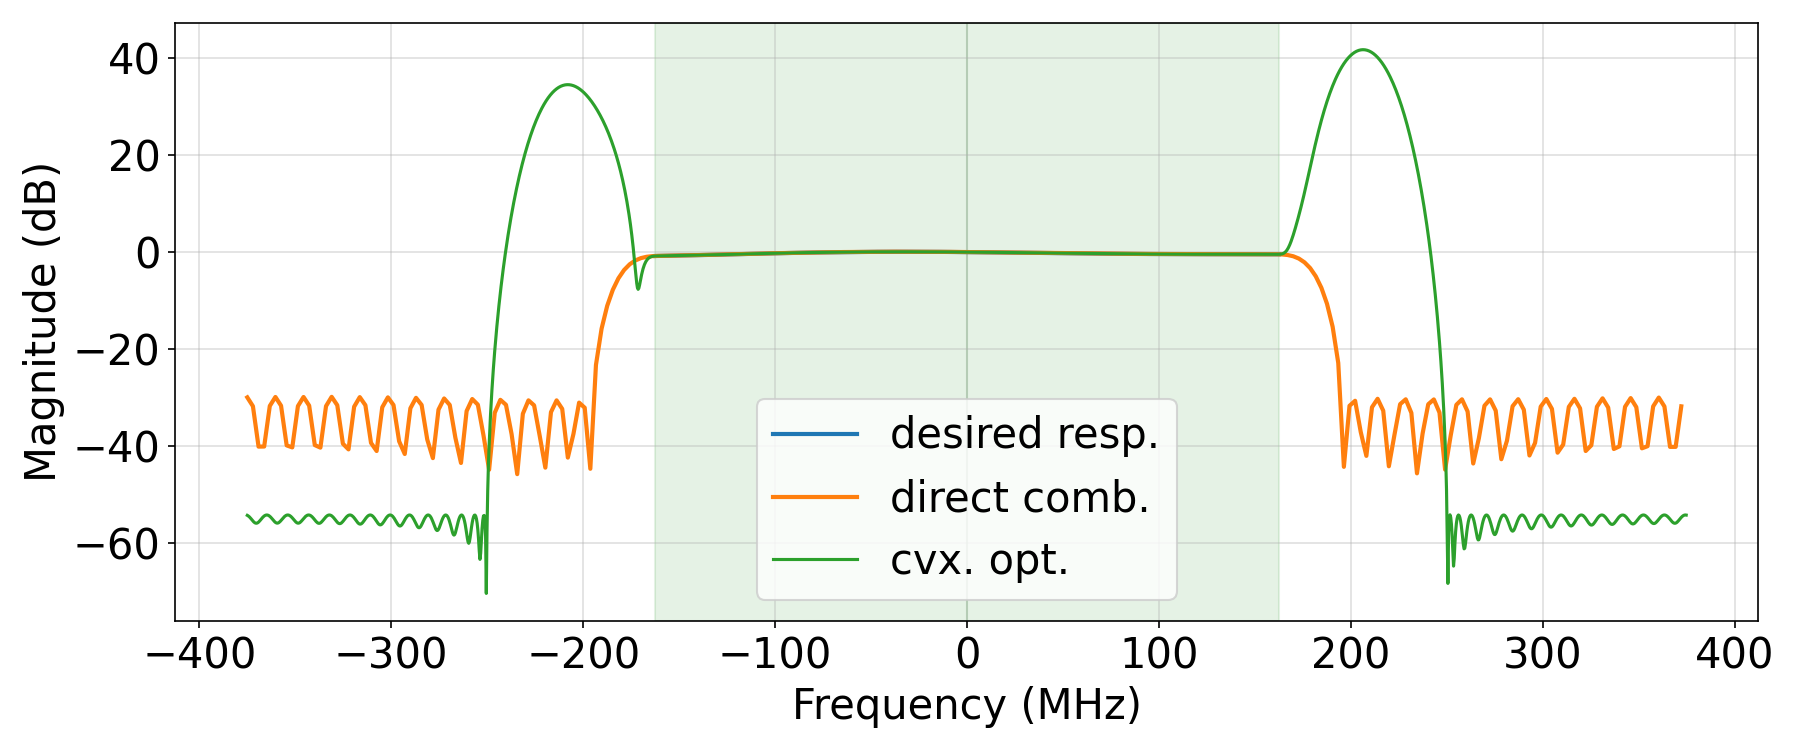
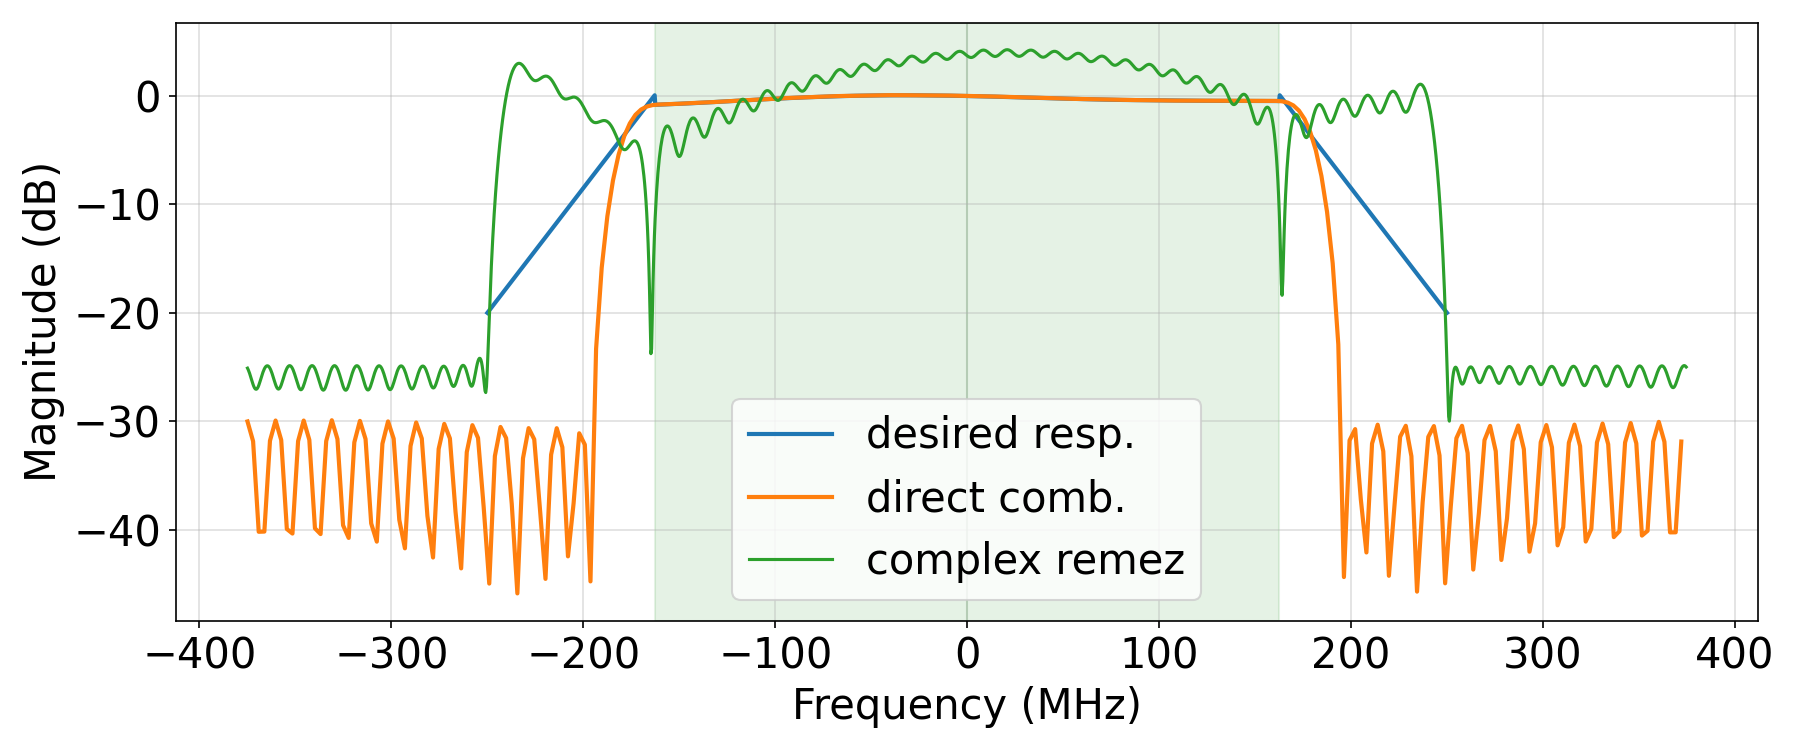
Add transition band constraint to complex remez

diff --git a/gen_rx_filter/run_eqz_lowpass_remez.py b/gen_rx_filter/run_eqz_lowpass_remez.py
@@ -50,7 +50,9 @@ import os
 import sys
 from typing import Optional, Union
 
+import matplotlib.pyplot as plt
 import numpy as np
+import plotly.graph_objects as go
 from scipy.linalg import lstsq as scipy_lstsq
 
 _HERE = os.path.dirname(os.path.abspath(__file__))
@@ -80,6 +82,7 @@ def design_complex_fir_remez(
     Hd_passband: np.ndarray,
     sb_weight: float = 1.0,
     transition_freqs: Optional[np.ndarray] = None,
+    Hd_transition: Optional[np.ndarray] = None,
     delta_t: Union[float, np.ndarray] = 1.0,
     n_iter: int = 150,
     tol: float = 1e-6,
@@ -110,11 +113,12 @@ def design_complex_fir_remez(
             tolerances so that peak_pb_err ≈ delta_p and peak_sb ≈ delta_s
             at convergence.
         transition_freqs: Optional angular frequencies in the transition band.
-            Desired response is 0; a tapered upper bound is encoded through
-            per-point weights derived from delta_t.
-        delta_t: Upper magnitude bound for the transition band.  Scalar for a
-            flat cap, or ndarray of length K_tb for a per-point bound.  A
-            tighter (smaller) bound produces a larger per-point weight.
+        Hd_transition: Desired magnitude response at transition_freqs (real,
+            positive).  When provided, the solver tracks this ramp directly
+            with weight sb_weight.  When None, falls back to a zero-desired /
+            tapered-weight upper-bound encoded via delta_t.
+        delta_t: Upper magnitude bound used only when Hd_transition is None.
+            Scalar or ndarray of length K_tb; tighter bound → larger weight.
         n_iter: Maximum Lawson iterations.
         tol: Convergence threshold: stop when the relative change in the
             combined peak error falls below this value.
@@ -134,7 +138,10 @@ def design_complex_fir_remez(
     if transition_freqs is not None:
         K_tb = len(transition_freqs)
         freq_parts.append(transition_freqs)
-        Hd_parts.append(np.zeros(K_tb, dtype=complex))
+        if Hd_transition is not None:
+            Hd_parts.append(Hd_transition.astype(complex))
+        else:
+            Hd_parts.append(np.zeros(K_tb, dtype=complex))
 
     all_freqs = np.concatenate(freq_parts)   # (K,)
     Hd_all    = np.concatenate(Hd_parts)     # (K,)
@@ -144,12 +151,15 @@ def design_complex_fir_remez(
     B = np.ones(K)
     B[K_pb : K_pb + K_sb] = sb_weight
     if K_tb > 0:
-        dt = np.atleast_1d(delta_t)
-        if dt.size == 1:
-            dt = np.full(K_tb, float(dt[0]))
-        dt = np.maximum(dt, 1e-9)           # guard against zero
-        # Tighter bound → larger weight (transition region treated as soft stopband)
-        B[K_pb + K_sb :] = sb_weight / dt
+        if Hd_transition is not None:
+            # Desired ramp provided: weight uniformly at sb_weight
+            B[K_pb + K_sb :] = sb_weight
+        else:
+            dt = np.atleast_1d(delta_t)
+            if dt.size == 1:
+                dt = np.full(K_tb, float(dt[0]))
+            dt = np.maximum(dt, 1e-9)
+            B[K_pb + K_sb :] = sb_weight / dt
 
     # DFT evaluation matrix  A[k, n] = exp(−j ω_k n)
     A = build_frequency_matrix(all_freqs, N)  # (K, N)
@@ -344,14 +354,17 @@ def design_eqz_lowpass_remez(
     # ------------------------------------------------------------------ #
     Hd_pb = interp_fft_response(eqz_resp, fs=fs_mhz, target_freqs_rad=pb_freqs)
 
-    # Transition-band upper bound: tapers linearly from passband peak to
-    # 3×delta_s so the solver has room at the boundary.
-    delta_t_start = float(np.max(np.abs(Hd_pb)))
-    delta_t_end   = delta_s * 3.0
-    t             = np.linspace(0.0, 1.0, n_grid // 2)
-    tb_bounds_pos = delta_t_start + (delta_t_end - delta_t_start) * t
-    tb_bounds_neg = tb_bounds_pos[::-1]
-    delta_t       = np.concatenate([tb_bounds_neg, tb_bounds_pos])
+    # Transition-band desired response: linear drop on dB scale from the
+    # passband-edge level down to delta_s at the stopband edge.
+    tb_db_start = 20 * np.log10(float(np.max(np.abs(Hd_pb))) + 1e-12)
+    tb_db_end   = 20 * np.log10(delta_s + 1e-12)
+    t           = np.linspace(0.0, 1.0, n_grid // 2)
+    tb_db_pos   = tb_db_start + (tb_db_end - tb_db_start) * t   # passband → stopband
+    tb_db_neg   = tb_db_pos[::-1]                                # stopband → passband
+    tb_desired  = np.concatenate([
+        10 ** (tb_db_neg / 20),
+        10 ** (tb_db_pos / 20),
+    ])
 
     # ------------------------------------------------------------------ #
     # Step 4: run complex Remez (Lawson IRLS)                            #
@@ -368,22 +381,23 @@ def design_eqz_lowpass_remez(
     print(f"  DC gain removed: |{np.abs(dc_gain):.6f}|  ∠{np.degrees(np.angle(dc_gain)):.2f}°")
     print(f"  delta_p     = {delta_p}  (passband),  delta_s = {delta_s}  (stopband)")
     print(f"  sb_weight   = delta_p/delta_s = {sb_weight:.4f}")
-    print("  transition  = unconstrained (Remez handles rolloff organically)")
+    print(f"  transition  = dB-linear ramp  [{tb_db_start:.2f} → {tb_db_end:.2f} dB]  "
+          f"({len(tb_freqs)} pts)")
     print(f"  max_iter    = {n_iter}")
 
-    # Note: transition_freqs are intentionally NOT passed here.
-    # Unlike the CVXPY solver (which needs an explicit upper-bound constraint to
-    # prevent the unconstrained gap from spiking), the Remez minimax objective
-    # naturally leaves the transition band unconstrained – the filter rolls off
-    # organically between the passband and stopband.  Encoding the taper as soft
-    # weights inflates the transition-band weight near the stopband edge above
-    # the passband weight, which hurts in-band fitting with no benefit.
+    # _tb_freqs = None        # set to tb_freqs to include transition band in solver
+    # _Hd_transition = None   # set to tb_desired to use ramp desired response
+    _tb_freqs = tb_freqs        # set to tb_freqs to include transition band in solver
+    _Hd_transition = tb_desired   # set to tb_desired to use ramp desired response
+
     h = design_complex_fir_remez(
         N=N,
         passband_freqs=pb_freqs,
         stopband_freqs=sb_freqs,
         Hd_passband=Hd_pb,
         sb_weight=sb_weight,
+        transition_freqs=_tb_freqs,
+        Hd_transition=_Hd_transition,
         n_iter=n_iter,
         verbose=verbose,
     )
@@ -404,10 +418,23 @@ def design_eqz_lowpass_remez(
     # ------------------------------------------------------------------ #
     # Step 6: save and plot                                               #
     # ------------------------------------------------------------------ #
-    _, _, H_combined, hc_freq_axis = compute_aaf_responses(
+    _, H_eqz, H_combined, hc_freq_axis = compute_aaf_responses(
         f_pass_mhz=f_pass_mhz, fs_mhz=fs_mhz
     )
-    H_combined = H_combined / H_combined[len(H_combined) // 2]
+    dc_idx     = len(H_eqz) // 2
+    H_eqz      = H_eqz     / H_eqz[dc_idx]
+    H_combined = H_combined / H_combined[dc_idx]
+
+    # Build desired-response arrays for plotting: include transition band when provided
+    if _Hd_transition is not None and _tb_freqs is not None:
+        _all_Hd_freqs = np.concatenate([pb_freqs, _tb_freqs])
+        _all_Hd = np.concatenate([Hd_pb, _Hd_transition.astype(complex)])
+        _sort = np.argsort(_all_Hd_freqs)
+        Hd_freqs_plot = _all_Hd_freqs[_sort]
+        Hd_plot = _all_Hd[_sort]
+    else:
+        Hd_freqs_plot = pb_freqs
+        Hd_plot = Hd_pb
 
     save_coefficients(h, out_dir=out_dir, name='eqz_lowpass_remez')
     plot_response(
@@ -415,11 +442,63 @@ def design_eqz_lowpass_remez(
         title=f'EQZ Lowpass FIR (Remez)  N={N}  ±{f_pass_mhz} MHz',
         passband_edges=(0.0, pb_norm),
         freq_unit='MHz',
-        Hd_freqs_rad=pb_freqs,
-        Hd=Hd_pb,
+        Hd_freqs_rad=Hd_freqs_plot,
+        Hd=Hd_plot,
         Hc_freqs_mhz=hc_freq_axis,
         Hc=H_combined,
+        h_label='complex remez',
     )
+
+    # ---- In-band error figure -------------------------------------------
+    # Error metric: |mag_dB(H) − mag_dB(H_eqz)| inside the passband,
+    # same definition as gen_aaf_coef.plot_inband_error.
+    pb_mask  = np.abs(hc_freq_axis) <= f_pass_mhz
+    freq_pb  = hc_freq_axis[pb_mask]
+    ref_db   = 20 * np.log10(np.abs(H_eqz[pb_mask])      + 1e-12)
+
+    # Evaluate the designed filter on the same AAF grid (hc_freq_axis in MHz)
+    hc_freqs_rad = hc_freq_axis / fs_mhz * 2 * np.pi
+    H_rmz_hc     = evaluate_response(h, hc_freqs_rad)
+    H_rmz_hc     = H_rmz_hc / H_rmz_hc[dc_idx]
+
+    def _err_db(H):
+        return np.abs(20 * np.log10(np.abs(H[pb_mask]) + 1e-12) - ref_db)
+
+    FSIZE = 20
+    curves = [
+        (_err_db(H_combined), 'direct combine'),
+        (_err_db(H_rmz_hc),   'complex remez'),
+    ]
+
+    # matplotlib PNG
+    fig, ax = plt.subplots(figsize=(12, 5))
+    for err, label in curves:
+        ax.plot(freq_pb, err, lw=2.0, label=label)
+    ax.set_xlabel('Frequency (MHz)', fontsize=FSIZE)
+    ax.set_ylabel('Magnitude error (dB)', fontsize=FSIZE)
+    ax.tick_params(labelsize=FSIZE)
+    ax.legend(fontsize=FSIZE)
+    ax.grid(True, alpha=0.4)
+    fig.tight_layout()
+    err_png = os.path.join(out_dir, 'inband_error.png')
+    fig.savefig(err_png, dpi=150)
+    plt.close(fig)
+    print(f"Saved in-band error plot → {err_png}")
+
+    # Plotly interactive HTML
+    pfig = go.Figure()
+    for err, label in curves:
+        pfig.add_trace(go.Scatter(x=freq_pb.tolist(), y=err.tolist(),
+                                  name=label, line=dict(width=2)))
+    pfig.update_layout(
+        xaxis_title='Frequency (MHz)',
+        yaxis_title='Magnitude error (dB)',
+        hovermode='x unified',
+        font=dict(size=FSIZE),
+    )
+    err_html = os.path.join(out_dir, 'inband_error.html')
+    pfig.write_html(err_html)
+    print(f"Saved in-band error HTML  → {err_html}")
     _write_params_tex(
         path=os.path.join(_HERE, 'document', 'params_remez.tex'),
         N=N, fs_mhz=fs_mhz, f_pass_mhz=f_pass_mhz, f_stop_mhz=f_stop_mhz,
@@ -447,7 +526,7 @@ def _build_parser() -> argparse.ArgumentParser:
                    help='Stopband start frequency in MHz')
     p.add_argument('--delta-p',  type=float, default=0.05,
                    help='Passband ripple tolerance (sets sb_weight = delta_p/delta_s)')
-    p.add_argument('--delta-s',  type=float, default=0.1,
+    p.add_argument('--delta-s',  type=float, default=0.1, # 0.1
                    help='Stopband attenuation tolerance')
     p.add_argument('--n-iter',   type=int,   default=150,
                    help='Maximum Lawson iterations')

diff --git a/gen_rx_filter/compare_lowpass_methods.py b/gen_rx_filter/compare_lowpass_methods.py
@@ -125,9 +125,26 @@ def run_comparison(
         verbose=verbose,
     )
 
-    # ---- Remez (Lawson IRLS, transition band unconstrained) --------------
+    # ---- Remez (Lawson IRLS) – two-pass stopband calibration -------------
+    # Pass 1: initial weight ratio sets the equiripple balance.
     sb_weight = delta_p / delta_s
-    print(f"[2/2] Remez Lawson IRLS  N={N}  sb_weight={sb_weight:.3f}")
+    print(f"[2/2] Remez Lawson IRLS  N={N}  pass 1  sb_weight={sb_weight:.3f}")
+    h_rmz = design_complex_fir_remez(
+        N=N,
+        passband_freqs=pb_freqs,
+        stopband_freqs=sb_freqs,
+        Hd_passband=Hd_pb,
+        sb_weight=sb_weight,
+        n_iter=n_iter_remez,
+        verbose=verbose,
+    )
+    # The equiripple condition gives sb_peak ≈ pb_peak / sb_weight, where
+    # pb_peak (δ*) is set by N — not by delta_p.  Recalibrate sb_weight
+    # using the measured pb_peak so pass 2 lands sb_peak ≈ delta_s.
+    pb_achieved = float(np.max(np.abs(evaluate_response(h_rmz, pb_freqs) - Hd_pb)))
+    sb_weight = pb_achieved / delta_s
+    print(f"           pass 2  pb_achieved={pb_achieved:.5f}  "
+          f"sb_weight_corrected={sb_weight:.3f}")
     h_rmz = design_complex_fir_remez(
         N=N,
         passband_freqs=pb_freqs,

diff --git a/gen_rx_filter/document/params_remez.tex b/gen_rx_filter/document/params_remez.tex
@@ -1,0 +1,12 @@
+\begin{tabular}{ll}
+  \toprule
+  Parameter & Value \\
+  \midrule
+  Sample rate $f_s$ & 750\,MHz (two-sided, Nyquist $= \pm375$\,MHz) \\
+  Passband edge $f_p$ & $\pm162.5$\,MHz \\
+  Stopband edge $f_{stop}$ & $\pm250.0$\,MHz \\
+  Filter taps $N$ & 63 \\
+  Passband tolerance $\delta_p$ & 0.05 \\
+  Stopband tolerance $\delta_s$ & 0.1 \\
+  \bottomrule
+\end{tabular}

diff --git a/gen_rx_filter/design_fir_cvxpy.py b/gen_rx_filter/design_fir_cvxpy.py
@@ -240,6 +240,7 @@ def plot_response(
     Hd: Optional[np.ndarray] = None,
     Hc_freqs_mhz: Optional[np.ndarray] = None,
     Hc: Optional[np.ndarray] = None,
+    h_label: str = 'cvx. opt.',
 ) -> None:
     """Plot magnitude (dB) and phase responses and save to PNG and interactive HTML.
 
@@ -293,7 +294,7 @@ def plot_response(
         ax.plot(hd_freq_axis, hd_mag_db, lw=2.0, label='desired resp.', zorder=2)
     if hc_mag_db is not None:
         ax.plot(Hc_freqs_mhz, hc_mag_db, lw=2.0, label='direct comb.', zorder=3)
-    ax.plot(w, mag_db, lw=1.5, label='cvx. opt.', zorder=4)
+    ax.plot(w, mag_db, lw=1.5, label=h_label, zorder=4)
     ax.set_ylabel('Magnitude (dB)', fontsize=FSIZE)
     ax.set_xlabel(f'Frequency ({freq_unit})', fontsize=FSIZE)
     ax.tick_params(labelsize=FSIZE)
@@ -320,7 +321,7 @@ def plot_response(
             ax2.plot(hd_freq_axis, hd_mag_db, lw=2.0, label='desired resp.', zorder=2)
         if hc_mag_db is not None:
             ax2.plot(Hc_freqs_mhz, hc_mag_db, lw=2.0, label='direct comb.', zorder=3)
-        ax2.plot(w, mag_db, lw=1.5, label='cvx. opt.', zorder=4)
+        ax2.plot(w, mag_db, lw=1.5, label=h_label, zorder=4)
         for lo, hi in [(-pb_hi * fs, -pb_lo * fs), (pb_lo * fs, pb_hi * fs)]:
             ax2.axvspan(lo, hi, alpha=0.10, color='green')
         ax2.set_xlim(x_lo, x_hi)
@@ -358,10 +359,10 @@ def plot_response(
                                   showlegend=False),
                        row=2, col=1)
     pfig.add_trace(go.Scatter(x=w.tolist(), y=mag_db.tolist(),
-                              name='cvx. opt.', line=dict(width=1.5)),
+                              name=h_label, line=dict(width=1.5)),
                    row=1, col=1)
     pfig.add_trace(go.Scatter(x=w.tolist(), y=phase_deg.tolist(),
-                              name='cvx. opt.', line=dict(width=1.5),
+                              name=h_label, line=dict(width=1.5),
                               showlegend=False),
                    row=2, col=1)
 

diff --git a/gen_rx_filter/README.md b/gen_rx_filter/README.md
@@ -25,15 +25,6 @@ python3 gen_rx_filter/run_eqz_lowpass_remez.py --N 95 --n-iter 200
 
 Output → `gen_rx_filter/figure/eqz_lowpass_remez/`
 
-### Split Remez (real and imaginary parts trained separately)
-
-```bash
-python3 gen_rx_filter/run_eqz_lowpass_remez_split.py
-python3 gen_rx_filter/run_eqz_lowpass_remez_split.py --N 95
-```
-
-Output → `gen_rx_filter/figure/eqz_lowpass_remez_split/`
-
 ---
 
 ## Comparison figures
@@ -51,12 +42,12 @@ Output → `gen_rx_filter/figure/compare_lowpass_methods/`
 
 ## Common options
 
-| Option | Default | Description |
-|---|---|---|
-| `--N` | 63 | Number of filter taps |
-| `--f-pass` | 162.5 | Passband half-bandwidth (MHz) |
-| `--f-stop` | 250.0 | Stopband edge (MHz) |
-| `--delta-p` | 0.05 | Passband ripple tolerance |
-| `--delta-s` | 0.10 | Stopband attenuation tolerance |
-| `--n-grid` | 512 | Frequency grid points per band |
-| `--verbose` | off | Print per-iteration diagnostics |
+| Option      | Default | Description                     |
+| ----------- | ------- | ------------------------------- |
+| `--N`       | 63      | Number of filter taps           |
+| `--f-pass`  | 162.5   | Passband half-bandwidth (MHz)   |
+| `--f-stop`  | 250.0   | Stopband edge (MHz)             |
+| `--delta-p` | 0.05    | Passband ripple tolerance       |
+| `--delta-s` | 0.10    | Stopband attenuation tolerance  |
+| `--n-grid`  | 512     | Frequency grid points per band  |
+| `--verbose` | off     | Print per-iteration diagnostics |